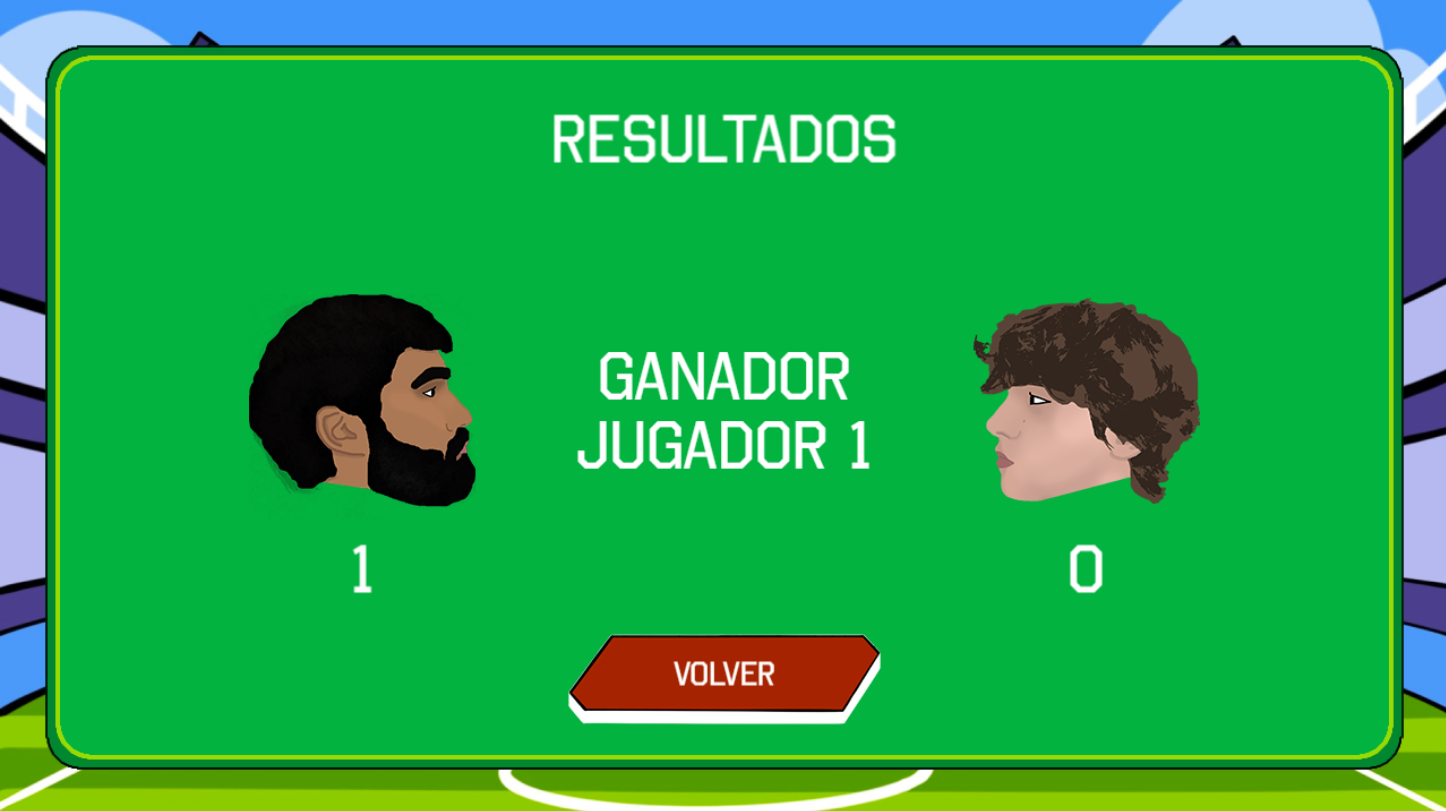
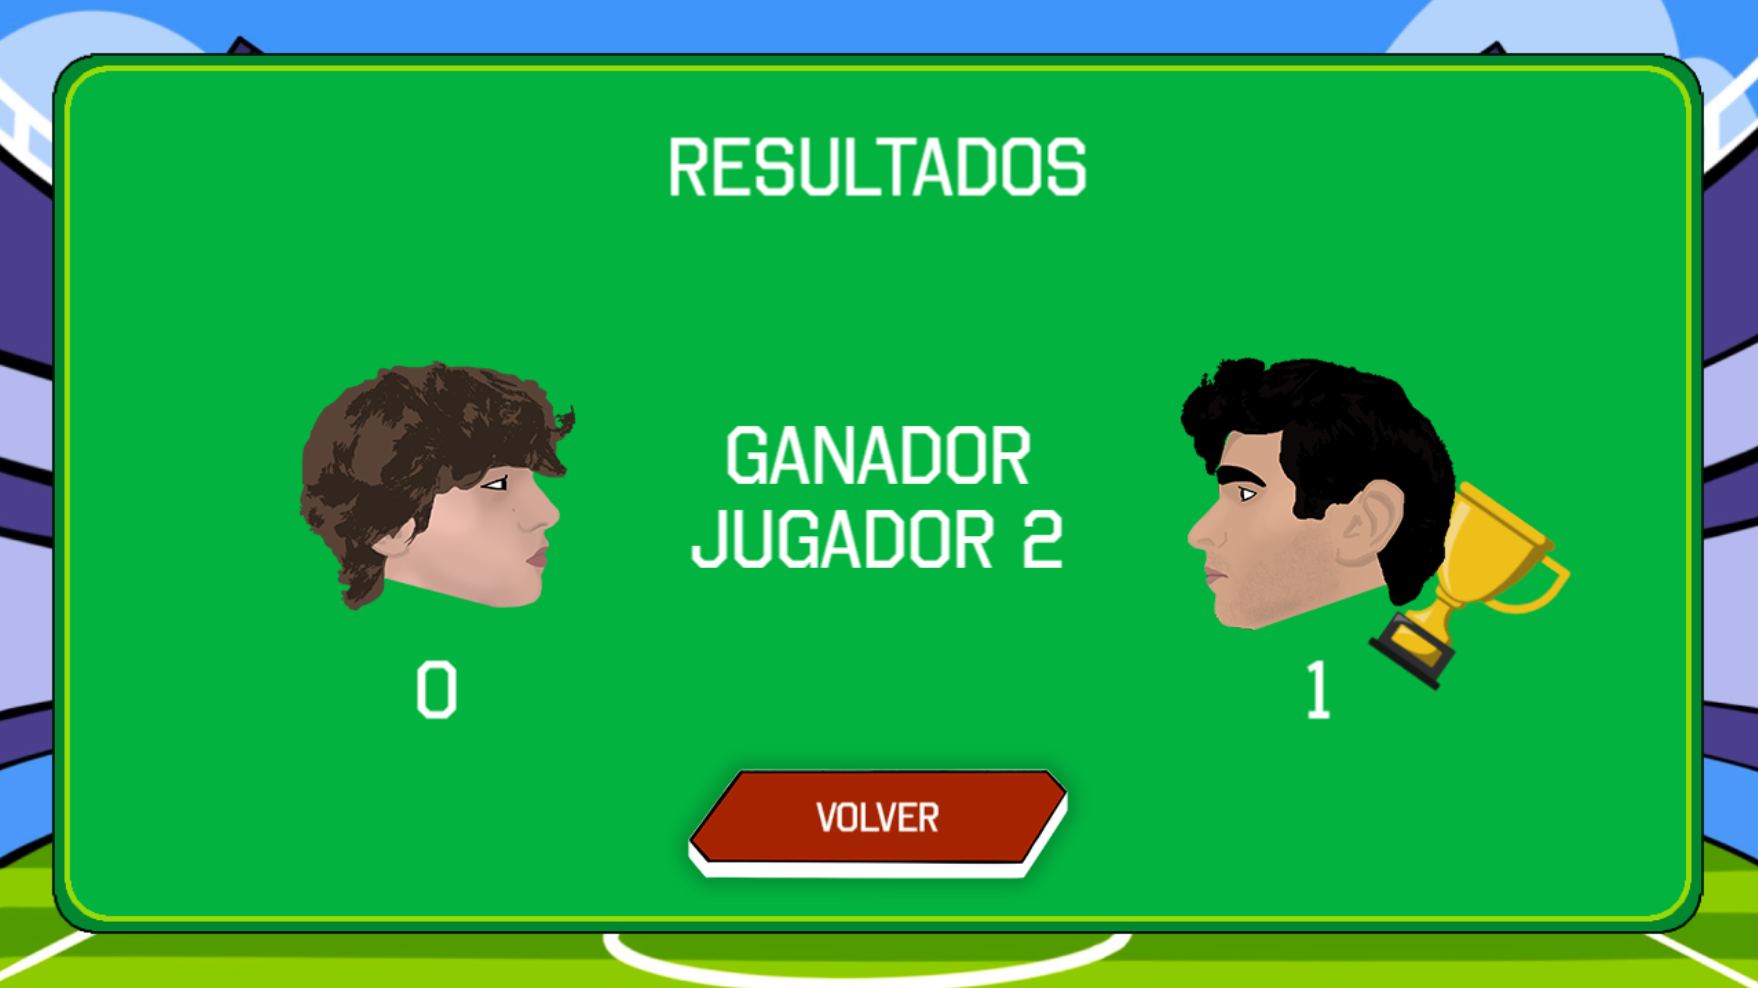
added trophy to results

diff --git a/js/scenes/results.js b/js/scenes/results.js
@@ -32,8 +32,14 @@ class SceneResults extends Phaser.Scene {
     let winner_s = 'Empate'
     
     //Not a tie
-    if (!isTie) winner_s = 'Ganador\n' + (data.p1.points > data.p2.points ? 'Jugador 1' : 'Jugador 2')
-
+    if (!isTie) {
+      winner_s = 'Ganador\n' + (data.p1.points > data.p2.points ? 'Jugador 1' : 'Jugador 2')
+      
+      //Add trophy
+      const trophy = this.add.image(1280 / 2 + (data.p1.points > data.p2.points ? -420 : 420), 430, 'trophy')
+      trophy.angle = (data.p1.points > data.p2.points ? -35 : 35)
+    }
+    
     //Winner
     const winner = this.add.text(640, 360, winner_s, {
       fontFamily: 'college',

diff --git a/js/scenes/credits.js b/js/scenes/credits.js
@@ -21,7 +21,7 @@ class SceneCredits extends Phaser.Scene {
     Element.onClick(bg, () => {}) //Prevent clickthrough
 
     //Add title
-    const title = this.add.text(640, 120, 'Creditos', {
+    const title = this.add.text(640, 120, 'Créditos', {
       fontFamily: 'college',
       fontSize: '64px',
       fill: '#fff',

diff --git a/js/scenes/main.js b/js/scenes/main.js
@@ -73,6 +73,8 @@ class SceneMain extends Phaser.Scene {
       ['marcador', 'assets/game/marcador.png'],
       ['setting_button', 'assets/game/settings_button.png'],
       ['back_button', 'assets/game/back_button.png'],
+      //Results
+      ['trophy', 'assets/game/trophy.png'],
     ])
   }
 
